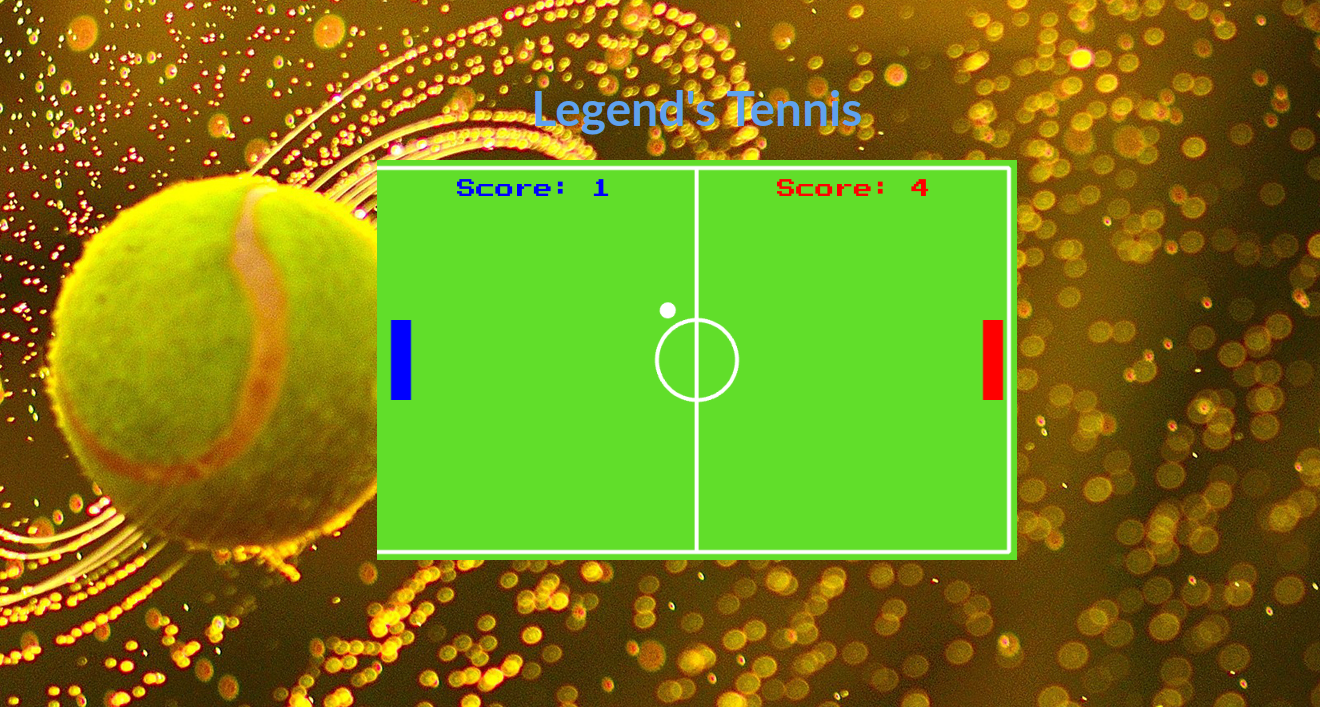
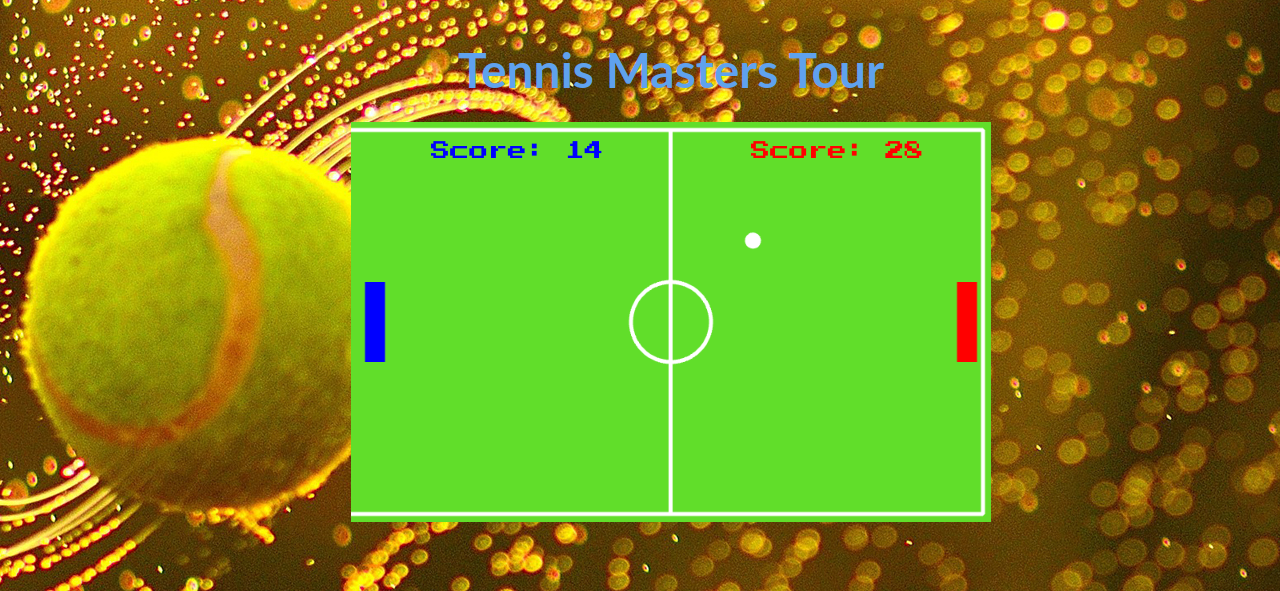
Feat(game): add update title

diff --git a/src/scenes/titleScreen.js b/src/scenes/titleScreen.js
@@ -1,16 +1,29 @@
 // eslint-disable-next-line import/no-unresolved
 import Phaser from 'phaser';
+import WebFontFile from '../../webFontFile';
 
 export default class TitleScreen extends Phaser.Scene {
   preload() {
-    this.load.image('background', 'assets/background.png');
+    const fonts = new WebFontFile(this.load, 'Press Start 2P');
+    this.load.addFile(fonts);
+    this.load.image('player', 'assets/player-icon.png');
   }
 
   create() {
-    this.add.tileSprite(800, 500, 'background');
-    // const text = this.add.text(400, 250, 'GAMER');
-    // text.setColor('green');
-    // text.setOrigin(0.5, 0.5);
-    // text.setFontSize(36);
+    // this.add.sprite(400, 250, 'player');
+    const text = this.add.text(400, 200, 'Legendary Tennis');
+    text.setColor('white');
+    text.setOrigin(0.5, 0.5);
+    text.setFontSize(24);
+
+    const start = this.add.text(400, 250, 'Press Space to Start');
+    start.setColor('white');
+    start.setOrigin(0.5, 0.5);
+    start.setFontSize(28);
+    start.setFontFamily('"Press Start 2P"');
+
+    this.input.keyboard.once('keydown-SPACE', () => {
+      this.scene.start('game');
+    });
   }
 }

diff --git a/src/index.js b/src/index.js
@@ -4,6 +4,7 @@ import './style/main.scss';
 import Phaser from 'phaser';
 import Game from './scenes/game';
 import GameBackground from './scenes/gameBackground';
+import TitleScreen from './scenes/titleScreen';
 
 /** @type {Phaser.Types.Core.GameConfig}
  * {width} number
@@ -29,13 +30,15 @@ const index = () => {
   const game = new Phaser.Game(config);
   game.scene.add('game', Game);
   game.scene.add('game-background', GameBackground);
-  game.scene.start('game');
+  game.scene.add('title', TitleScreen);
+  game.scene.start('title');
+  // game.scene.start('game');
 };
 
 const { body } = document;
 const heading = document.createElement('h1');
 heading.setAttribute('class', 'heading');
-heading.textContent = "Legend's Tennis";
+heading.textContent = 'Tennis Masters Tour';
 
 body.appendChild(heading);
 body.appendChild(index());

diff --git a/src/scenes/game.js b/src/scenes/game.js
@@ -38,7 +38,10 @@ export default class Game extends Phaser.Scene {
     this.physics.add.existing(this.ball);
     this.ball.body.setCollideWorldBounds(true, 1, 1);
 
-    this.resetBall();
+    this.time.delayedCall(2000, () => {
+      this.resetBall();
+    });
+
     this.ball.body.setBounce(1, 1);
 
     this.paddleLeft = this.add.rectangle(30, 250, 25, 100, 0x0000ff, 1);
